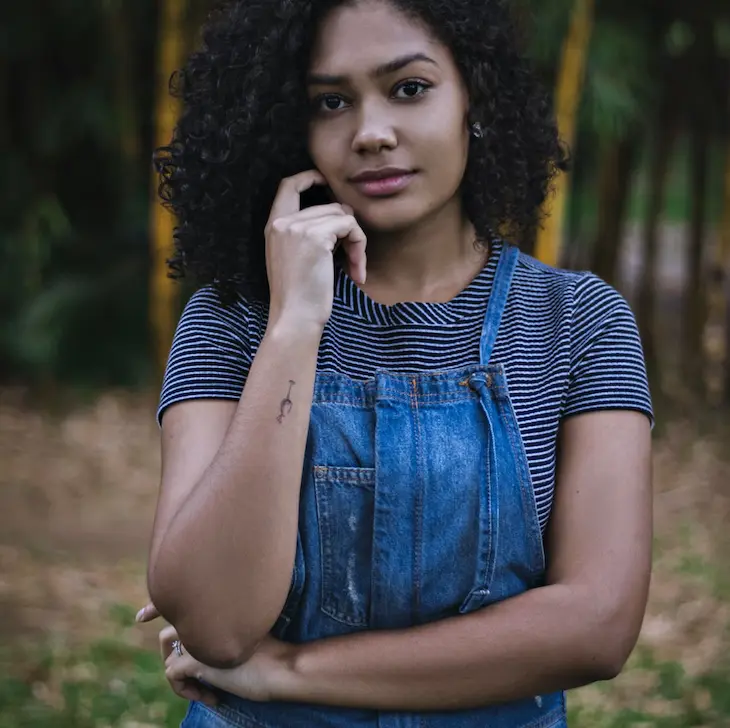
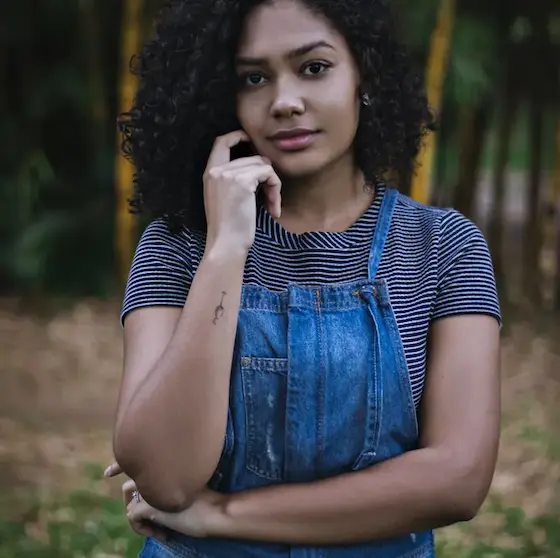
fix SEO mobile

Changed region(s): [[0.425, 0.3656, 0.8804, 0.7007], [0.2125, 0.3961, 0.3339, 0.5484]]

diff --git a/index.html b/index.html
@@ -2,16 +2,13 @@
 <html lang="fr">
 <head>
 	<meta name="viewport" content="width=device-width, initial-scale=1.0">
-	<link rel="stylesheet" href="./assets/bootstrap/bootstrap.css">
-	<link rel="stylesheet" href="./assets/style.css">
-	<link rel="preconnect" href="https://fonts.googleapis.com">
-	<link rel="preconnect" href="https://fonts.gstatic.com" crossorigin>
-	<link href="https://fonts.googleapis.com/css2?family=Inter&family=Spectral:ital,wght@0,400;1,300;1,400;1,800&display=swap" rel="stylesheet">
+	<link rel="stylesheet" href="./assets/bootstrap/bootstrap.min.css">
+	<link rel="stylesheet" href="./assets/style.min.css">
 	<meta charset="UTF-8">
-	<script src="./assets/bootstrap/bootstrap.bundle.js"></script>
+	<script src="./assets/bootstrap/bootstrap.bundle.min.js" defer></script>
 	<script src="https://code.jquery.com/jquery-3.4.1.min.js" integrity="sha256-CSXorXvZcTkaix6Yvo6HppcZGetbYMGWSFlBw8HfCJo=" crossorigin="anonymous"></script>
-	<script src="./assets/maugallery.js"></script>
-	<script src="./assets/scripts.js"></script>
+	<script src="./assets/maugallery.min.js" defer></script>
+	<script src="./assets/scripts.js" defer></script>
 	<title>Nina Carducci - Photographe</title>
 	<meta 
 		name="description" 
@@ -63,6 +60,7 @@
 					<div class="carousel-item">
 						<img 
 							src="./assets/images/slider/nicholas-green-high.webp" 
+							loading="lazy"
 							srcset="
                                 ./assets/images/slider/nicholas-green-high.webp   1920w,
 								./assets/images/slider/nicholas-green-medium.webp 1000w,
@@ -78,6 +76,7 @@
 					<div class="carousel-item">
 						<img 
 							src="./assets/images/slider/edward-cisneros-high.webp" 
+							loading="lazy"
 							srcset="
 								./assets/images/slider/edward-cisneros-high.webp   1920w,
                                 ./assets/images/slider/edward-cisneros-medium.webp 1000w,
@@ -110,8 +109,7 @@
 					srcset="
                         ./assets/images/nina-low.webp    288w,
                         ./assets/images/nina-medium.webp 400w,
-                        ./assets/images/nina-high.webp   560w
-                    "
+                        ./assets/images/nina-high.webp   560w"
                     type="image/webp"
                     sizes="
 						(max-width:650px) 288px,
@@ -134,6 +132,7 @@
 						data-gallery-tag="Concert" 
 						class="gallery-item" 
 						src="./assets/images/gallery/concerts/aaron-paul-high.webp" 
+						loading="lazy"
 						srcset="
 							./assets/images/gallery/concerts/aaron-paul-high.webp 	1920w,
 							./assets/images/gallery/concerts/aaron-paul-medium.webp 1000w,
@@ -144,6 +143,7 @@
 						data-gallery-tag="Entreprises" 
 						class="gallery-item" 
 						src="./assets/images/gallery/entreprise/ali-morshedlou-high.webp"
+						loading="lazy"
 						srcset="
 							./assets/images/gallery/entreprise/ali-morshedlou-high.webp   1920w,
 							./assets/images/gallery/entreprise/ali-morshedlou-medium.webp 1000w,
@@ -154,6 +154,7 @@
 						data-gallery-tag="Entreprises" 
 						class="gallery-item" 
 						src="./assets/images/gallery/entreprise/jason-goodman-high.webp"
+						loading="lazy"
 						srcset="
 							./assets/images/gallery/entreprise/jason-goodman-high.webp   1920w,
 							./assets/images/gallery/entreprise/jason-goodman-medium.webp 1000w,
@@ -164,6 +165,7 @@
 						data-gallery-tag="Mariages" 
 						class="gallery-item" 
 						src="./assets/images/gallery/mariage/hannah-busing-high.webp" 
+						loading="lazy"
 						srcset="
 							./assets/images/gallery/mariage/hannah-busing-high.webp   1920w,
 							./assets/images/gallery/mariage/hannah-busing-medium.webp 1000w,
@@ -174,6 +176,7 @@
 						data-gallery-tag="Portrait" 
 						class="gallery-item" 
 						src="./assets/images/gallery/portraits/ade-tunji-high.webp" 
+						loading="lazy"
 						srcset="
 							./assets/images/gallery/portraits/ade-tunji-high.webp   1920w,
 							./assets/images/gallery/portraits/ade-tunji-medium.webp 1000w,
@@ -184,6 +187,7 @@
 						data-gallery-tag="Mariages" 
 						class="gallery-item" 
 						src="./assets/images/gallery/mariage/jakob-owens-high.webp" 
+						loading="lazy"
 						srcset="
 							./assets/images/gallery/mariage/jakob-owens-high.webp   1920w,
 							./assets/images/gallery/mariage/jakob-owens-medium.webp 1000w,
@@ -194,16 +198,18 @@
 						data-gallery-tag="Portrait" 
 						class="gallery-item" 
 						src="./assets/images/gallery/portraits/nino-van-prattenburg-high.webp" 
+						loading="lazy"
 						srcset="
 							./assets/images/gallery/portraits/nino-van-prattenburg-high.webp   1920w,
 							./assets/images/gallery/portraits/nino-van-prattenburg-medium.webp 1000w,
-							./assets/images/gallery/portraits/nino-van-prattenburg-low.webp    450w"
+							./assets/images/gallery/portraits/nino-van-prattenburg-low.webp   450w"
 						type="image/webp" 
 						alt="Portrait d'une femme avec des lunettes posant devant un grillage"/>
 					<img 
 						data-gallery-tag="Concert" 
 						class="gallery-item" 
 						src="./assets/images/gallery/concerts/austin-neill-high.webp" 
+						loading="lazy"
 						srcset="
 							./assets/images/gallery/concerts/austin-neill-high.webp	  1920w,
 							./assets/images/gallery/concerts/austin-neill-medium.webp 1000w,
@@ -214,6 +220,7 @@
 						data-gallery-tag="Entreprises" 
 						class="gallery-item" 
 						src="./assets/images/gallery/entreprise/mateus-campos-high.webp" 
+						loading="lazy"
 						srcset="
 							./assets/images/gallery/entreprise/mateus-campos-high.webp   1920w,
 							./assets/images/gallery/entreprise/mateus-campos-medium.webp 1000w,

diff --git a/assets/style.min.css b/assets/style.min.css
@@ -1,0 +1,1 @@
+.nav a,.nav-pills .nav-link{color:#000}.about-me__introduction,.quote,.quote__text{font-style:italic;font-family:Spectral}.quote,.quote__author,.quote__text{font-family:Spectral}.service,.top-header{background-color:#fff;display:flex}#about,#contact{padding-inline:100px;padding-block:100px}.picture.left::before,.picture.right::before{content:' ';width:374px;height:329px;bottom:0;z-index:-1}#about,#contact .container,#services .container,.mg-next,.mg-prev,.nav ul,.service,.top-header,form{display:flex}body{max-width:1920px;margin:auto}*{font-family:Inter;font-style:normal}@font-face{font-family:Inter;font-style:normal;font-weight:400;font-display:swap;src:url(https://fonts.gstatic.com/s/inter/v12/UcCO3FwrK3iLTeHuS_fvQtMwCp50KnMw2boKoduKmMEVuLyfMZg.ttf) format("truetype")}@font-face{font-family:Spectral;font-style:italic;font-weight:300;font-display:swap;src:url(https://fonts.gstatic.com/s/spectral/v13/rnCu-xNNww_2s0amA9M8qtHEafM.ttf) format("truetype")}@font-face{font-family:Spectral;font-style:italic;font-weight:400;font-display:swap;src:url(https://fonts.gstatic.com/s/spectral/v13/rnCt-xNNww_2s0amA9M8kn0.ttf) format("truetype")}@font-face{font-family:Spectral;font-style:italic;font-weight:800;font-display:swap;src:url(https://fonts.gstatic.com/s/spectral/v13/rnCu-xNNww_2s0amA9M8qt3AafM.ttf) format("truetype")}@font-face{font-family:Spectral;font-style:normal;font-weight:400;font-display:swap;src:url(https://fonts.gstatic.com/s/spectral/v13/rnCr-xNNww_2s0amA-M-.ttf) format("truetype")}.top-header{position:sticky;top:0;z-index:1000;justify-content:space-between;padding-inline:100px;padding-block:30px;align-items:center}#about,#contact,#services,.item-column{position:relative}.top-header .name{font-size:26px}.nav ul{list-style-type:none;font-size:14px;margin-bottom:0}.nav li{padding-inline:10px}.nav a{text-decoration:none}.social-link img{width:20px;height:20px}#about{background-color:#f6d2b8}.picture.left,.picture.right{display:flex;align-items:center}.picture.left::before{background-color:#e5975f;position:absolute;left:0}.picture{flex:1;margin:0 20px;z-index:0}.picture img{width:100%;aspect-ratio:1/1}#about-me,.form-container{flex:2}.about-me__title{margin-top:1em;margin-bottom:60px;font-size:30px}.about-me__introduction{font-weight:800;width:60%}#about-me p{width:80%;font-size:14px}#about-me p.about-me__introduction{font-size:20px}#gallery{min-height:100vh}.title{text-align:center;padding-block:2em}.gallery .nav{justify-content:center}.nav-pills .nav-link.active,.nav-pills .show>.nav-link{color:#000;background-color:#beb45a;border-radius:0}.item-column{margin-bottom:0!important;padding:0}.item-column::after{content:"";display:block;padding-bottom:100%}.gallery-item{position:absolute;width:100%;height:100%;object-fit:cover;padding:.5em}.mg-next,.mg-prev{width:30px;height:30px;border-radius:00%;justify-content:center;align-items:center;font-size:24px}form input,form textarea{width:100%;background-color:transparent;border:1px solid;margin-bottom:20px}.quote{width:70%;margin:auto;padding-block:3em}.quote__text{font-weight:300;font-size:40px}.quote__author{font-weight:800;font-size:22px}#services{margin:auto;background-color:#a8d5d8}#services .container::before{content:' ';background-color:#1c6474;position:absolute;width:100%;height:30%;bottom:0;left:0;z-index:0}#services .container{justify-content:space-between;padding:2em 0}.service{max-width:390px;width:30%;height:337px;padding:1em;flex-direction:column;justify-content:space-between;z-index:1}#contact{margin:auto;background-color:#d8d3a8}.picture.right::before{background-color:#beb45a;position:absolute;right:0}form{flex-direction:column;width:70%;align-items:flex-start}form input{height:2.5em}form textarea{height:5em;line-height:2.5em;font-size:1.2em}input[type=submit]{background-color:#beb45a;padding:.5em 1em}@media all and (max-width:1180px){.picture{flex:2}#about,#contact .container{align-items:center}.about-me__title{margin-top:0;margin-bottom:1em}#about-me p{width:100%}}@media all and (max-width:1000px){.picture.left::before,.picture.right::before{height:30%;position:absolute;z-index:-1;width:100%}#about,#contact .container,#services .container{flex-direction:column}.picture{width:50%}.picture.left::before{bottom:auto;top:0;left:0}.quote__text{font-size:25px}.quote__author{font-size:18px}.about-me__title{text-align:center;margin-top:1em}.service{width:100%;max-width:100%;height:auto;margin:2em 0}.service__description{margin-bottom:1em}#services .container::before{width:30%;height:100%;bottom:0;right:0;left:auto;z-index:0}.form-container{display:flex;flex-direction:column;align-items:center}#contact .picture.right{margin-top:1em}.picture.right::before{bottom:0;right:0}}@media all and (max-width:650px){.top-header{flex-direction:column;padding-inline:0}.top-header .nav,.top-header .nav ul{width:100%;padding:0}.top-header .nav li{flex:1;padding-block:1em;text-align:center}.quote__text{font-size:20px}.quote__author{font-size:16px}.picture.left::before,.picture.right::before{height:150px}#services .container{align-items:center}.service{max-width:90%}#about,#contact{padding-inline:2em;padding-block:2em}form{width:100%}.picture{width:80%}}

diff --git a/assets/maugallery.min.js b/assets/maugallery.min.js
@@ -1,0 +1,12 @@
+!function(a){a.fn.mauGallery=function(t){var t=a.extend(a.fn.mauGallery.defaults,t),e=[];return this.each(function(){a.fn.mauGallery.methods.createRowWrapper(a(this)),t.lightBox&&a.fn.mauGallery.methods.createLightBox(a(this),t.lightboxId,t.navigation),a.fn.mauGallery.listeners(t),a(this).children(".gallery-item").each(function(l){a.fn.mauGallery.methods.responsiveImageItem(a(this)),a.fn.mauGallery.methods.moveItemInRowWrapper(a(this)),a.fn.mauGallery.methods.wrapItemInColumn(a(this),t.columns);var i=a(this).data("gallery-tag");t.showTags&&void 0!==i&&-1===e.indexOf(i)&&e.push(i)}),t.showTags&&a.fn.mauGallery.methods.showItemTags(a(this),t.tagsPosition,e),a(this).fadeIn(500)})},a.fn.mauGallery.defaults={columns:3,lightBox:!0,lightboxId:null,showTags:!0,tagsPosition:"bottom",navigation:!0},a.fn.mauGallery.listeners=function(t){a(".gallery-item").on("click",function(){t.lightBox&&"IMG"===a(this).prop("tagName")&&a.fn.mauGallery.methods.openLightBox(a(this),t.lightboxId)}),a(".gallery").on("click",".nav-link",a.fn.mauGallery.methods.filterByTag),a(".gallery").on("click",".mg-prev",()=>a.fn.mauGallery.methods.prevImage(t.lightboxId)),a(".gallery").on("click",".mg-next",()=>a.fn.mauGallery.methods.nextImage(t.lightboxId))},a.fn.mauGallery.methods={createRowWrapper(a){a.children().first().hasClass("row")||a.append('<div class="gallery-items-row row"></div>')},wrapItemInColumn(a,t){if(t.constructor===Number)a.wrap(`<div class='item-column mb-4 col-${Math.ceil(12/t)}'></div>`);else if(t.constructor===Object){var e="";t.xs&&(e+=` col-${Math.ceil(12/t.xs)}`),t.sm&&(e+=` col-sm-${Math.ceil(12/t.sm)}`),t.md&&(e+=` col-md-${Math.ceil(12/t.md)}`),t.lg&&(e+=` col-lg-${Math.ceil(12/t.lg)}`),t.xl&&(e+=` col-xl-${Math.ceil(12/t.xl)}`),a.wrap(`<div class='item-column mb-4${e}'></div>`)}else console.error(`Columns should be defined as numbers or objects. ${typeof t} is not supported.`)},moveItemInRowWrapper(a){a.appendTo(".gallery-items-row")},responsiveImageItem(a){"IMG"===a.prop("tagName")&&a.addClass("img-fluid")},openLightBox(t,e){a(`#${e}`).find(".lightboxImage").attr("src",t.attr("src")),a(`#${e}`).modal("toggle")},prevImage(){let t=null;a("img.gallery-item").each(function(){a(this).attr("src")===a(".lightboxImage").attr("src")&&(t=a(this))});let e=a(".tags-bar span.active-tag").data("images-toggle"),l=[];"all"===e?a(".item-column").each(function(){a(this).children("img").length&&l.push(a(this).children("img"))}):a(".item-column").each(function(){a(this).children("img").data("gallery-tag")===e&&l.push(a(this).children("img"))});let i=0,s=null;a(l).each(function(e){a(t).attr("src")===a(this).attr("src")&&(i=e-1)}),s=l[i]||l[l.length-1],a(".lightboxImage").attr("src",a(s).attr("src"))},nextImage(){let t=null;a("img.gallery-item").each(function(){a(this).attr("src")===a(".lightboxImage").attr("src")&&(t=a(this))});let e=a(".tags-bar span.active-tag").data("images-toggle"),l=[];"all"===e?a(".item-column").each(function(){a(this).children("img").length&&l.push(a(this).children("img"))}):a(".item-column").each(function(){a(this).children("img").data("gallery-tag")===e&&l.push(a(this).children("img"))});let i=0,s=null;a(l).each(function(e){a(t).attr("src")===a(this).attr("src")&&(i=e+1)}),s=l[i]||l[0],a(".lightboxImage").attr("src",a(s).attr("src"))},createLightBox(a,t,e){a.append(`<div class="modal fade" id="${t||"galleryLightbox"}" tabindex="-1" role="dialog" aria-hidden="true">
+                <div class="modal-dialog" role="document">
+                    <div class="modal-content">
+                        <div class="modal-body">
+                            ${e?'<div class="mg-prev" style="cursor:pointer;position:absolute;top:50%;left:-15px;background:white;"><</div>':'<span style="display:none;" />'}
+                            <img class="lightboxImage img-fluid" alt="Contenu de l'image affich\xe9e dans la modale au clique"/>
+                            ${e?'<div class="mg-next" style="cursor:pointer;position:absolute;top:50%;right:-15px;background:white;}">></div>':'<span style="display:none;" />'}
+                        </div>
+                    </div>
+                </div>
+            </div>`)},showItemTags(t,e,l){var i='<li class="nav-item"><span class="nav-link active active-tag"  data-images-toggle="all">Tous</span></li>';a.each(l,function(a,t){i+=`<li class="nav-item active">
+                <span class="nav-link"  data-images-toggle="${t}">${t}</span></li>`});var s=`<ul class="my-4 tags-bar nav nav-pills">${i}</ul>`;"bottom"===e?t.append(s):"top"===e?t.prepend(s):console.error(`Unknown tags position: ${e}`)},filterByTag(){if(!a(this).hasClass("active-tag")){a(".active.active-tag").removeClass("active active-tag"),a(this).addClass("active-tag active");var t=a(this).data("images-toggle");a(".gallery-item").each(function(){a(this).parents(".item-column").hide(),"all"===t?a(this).parents(".item-column").show(300):a(this).data("gallery-tag")===t&&a(this).parents(".item-column").show(300)})}}}}(jQuery);

diff --git a/assets/style.css b/assets/style.css
@@ -6,6 +6,47 @@ body {
 	font-family: 'Inter';
 	font-style: normal;
 }
+@font-face {
+    font-family: Inter;
+    font-style: normal;
+    font-weight: 400;
+    font-display: swap;
+    src: url(https://fonts.gstatic.com/s/inter/v12/UcCO3FwrK3iLTeHuS_fvQtMwCp50KnMw2boKoduKmMEVuLyfMZg.ttf)
+        format("truetype");
+}
+@font-face {
+    font-family: Spectral;
+    font-style: italic;
+    font-weight: 300;
+    font-display: swap;
+    src: url(https://fonts.gstatic.com/s/spectral/v13/rnCu-xNNww_2s0amA9M8qtHEafM.ttf)
+        format("truetype");
+}
+@font-face {
+    font-family: Spectral;
+    font-style: italic;
+    font-weight: 400;
+    font-display: swap;
+    src: url(https://fonts.gstatic.com/s/spectral/v13/rnCt-xNNww_2s0amA9M8kn0.ttf)
+        format("truetype");
+}
+@font-face {
+    font-family: Spectral;
+    font-style: italic;
+    font-weight: 800;
+    font-display: swap;
+    src: url(https://fonts.gstatic.com/s/spectral/v13/rnCu-xNNww_2s0amA9M8qt3AafM.ttf)
+        format("truetype");
+}
+@font-face {
+    font-family: Spectral;
+    font-style: normal;
+    font-weight: 400;
+    font-display: swap;
+    src: url(https://fonts.gstatic.com/s/spectral/v13/rnCr-xNNww_2s0amA-M-.ttf)
+        format("truetype");
+}
+
 .top-header {
 	background-color: white;
 	position: sticky;
@@ -51,6 +92,11 @@ body {
 	position: relative;
 }
 
+.picture.left {
+	display: flex;
+	align-items: center;
+}
+
 .picture.left::before {
 	content: ' ';
 	background-color: #E5975F;
@@ -70,7 +116,7 @@ body {
 
 .picture img {
 	width: 100%;
-	height: 100%;
+	aspect-ratio: 1/1;
 }
 #about-me {
 	flex: 2
@@ -205,6 +251,10 @@ body {
 #contact .container {
 	display: flex;
 }
+.picture.right {
+	display: flex;
+	align-items: center;
+}
 .picture.right::before {
 	content: ' ';
 	background-color: #BEB45A;
@@ -217,7 +267,6 @@ body {
 }
 .form-container {
 	flex : 2;
-
 }
 form {
 	display: flex;
@@ -251,7 +300,7 @@ input[type="submit"] {
 @media all and (max-width: 1180px) {
 	.picture {
 		flex : 2;
-		height: 100%;
+		
 	}
 	#about, #contact .container {
 		align-items: center;
@@ -282,6 +331,12 @@ input[type="submit"] {
 		left: 0;
 		z-index: -1;
 	}
+	.quote__text {
+		font-size: 25px;
+	}
+	.quote__author {
+		font-size: 18px;
+	}
 	.about-me__title{
 		text-align: center;
 		margin-top: 1em;
@@ -307,7 +362,11 @@ input[type="submit"] {
 		left: auto;
 		z-index: 0;
 	}
-
+	.form-container {
+		display: flex;
+		flex-direction: column;
+		align-items: center;
+	}
 	#contact .container {
 		flex-direction: column;
 	}
@@ -338,6 +397,12 @@ input[type="submit"] {
 		padding-block: 1em;
 		text-align: center;
 	}
+	.quote__text {
+		font-size: 20px;
+	}
+	.quote__author {
+		font-size: 16px;
+	}
 	.picture.left::before, .picture.right::before {
 		height: 150px;
 	}
@@ -358,4 +423,3 @@ input[type="submit"] {
 		width: 80%;
 	}
 }
-
